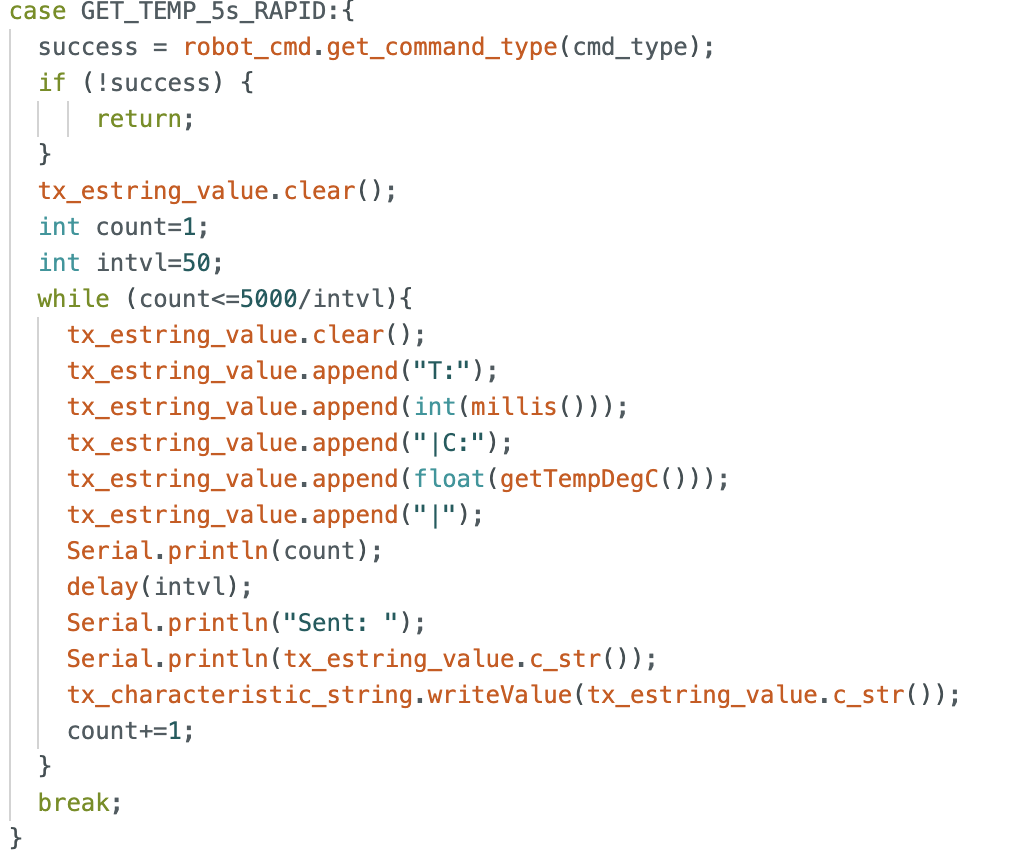
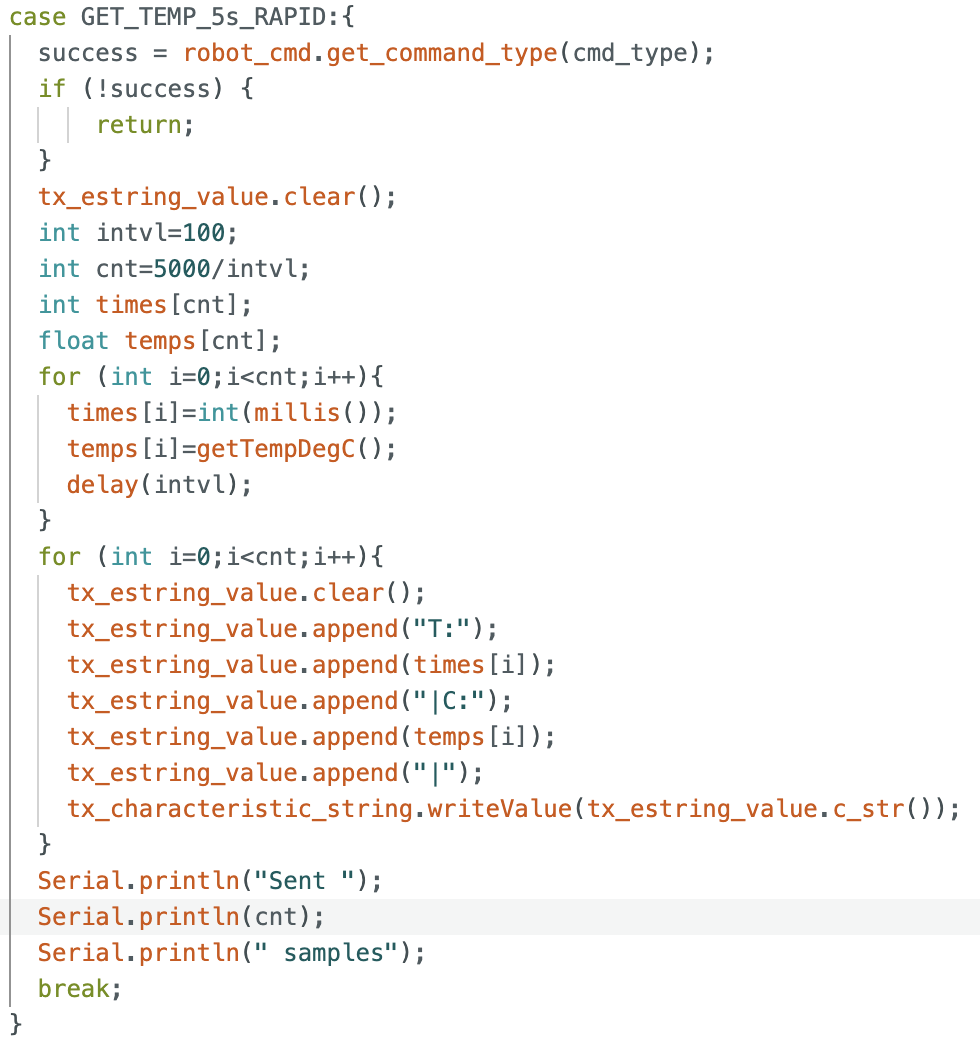
Lab 3 completed

Changed region(s): [[0.0, 0.0, 0.9796, 0.9731], [0.0, 0.9731, 0.0306, 1.0]]

diff --git a/docs/index.html b/docs/index.html
@@ -452,11 +452,11 @@
                                     </div>
                                     <p class="item-intro text-muted">Task 4: Get Temperature Command</p>
 
-                                    <p>To sample temperature more rapidly, I use another command <em>GET_TEMP_5s_RAPID</em> in which I set an interval of 50ms, thus 5 * 1000 / 50 = 100 temperature points were obtained. I also set a counter on the Artemis side and print it out each time it sends a temperature data to testify:</p>
+                                    <p>To sample temperature more rapidly, I use another command <em>GET_TEMP_5s_RAPID</em> in which I set an interval of 100ms, thus 5 * 1000 / 100 = 50 samples were obtained in 5 seconds, stored in two arrays, then sent one at a time to PC:</p>
                                     <div class="labim" ><img width="500" src="assets/img/Lab/2_16.png" alt="..."></div>
 
                                     <div class="youtube-embedded">
-                                    <iframe  width="640" height="360" src="https://www.youtube.com/embed/Slp_FstnQnw"></iframe>
+                                    <iframe  width="640" height="360" src="https://www.youtube.com/embed/Gssiif0stbA"></iframe>
                                     </div>
                                     <p class="item-intro text-muted">Task 4: Get Temperature Rapidly</p>
                                     <h4>Task 5: Limitations</h4>
@@ -504,26 +504,75 @@
                                     <h2 class="text-uppercase">Lab 3</h2>
                                     <p class="item-intro text-muted">Time of Flight Sensors</p>
                                     <h3>Introduction</h3>
-                                    <p></p>
+                                    <p>This lab aims to arm the Artemis board with two time-of-flight distance sensors. The range, accuracy, repeatability, and reading time of the sensors are examined. </p>
                                     <h3>Prelab</h3>
+                                    <h4>(a) I2C</h4>
                                     <p>The sensors use I2C to communicate with the Artemis board. As is specified on VL53L1X's datasheet, the default I2C address is <code>0x52</code>.</p>
-
+                                    <h4>(b) 2 Sensors</h4>
+                                    <p>Two ToF sensors shall be employed on the robot. As these two share the same default I2C address, one of them is supposed to be changed manually. I implemented this by connecting the XSHUT pin of one of the sensors to a GPIO pin on Artemis. In the setup process, after starting both sensors, the pin outputs low to temporarily shut down the corresponding sensor. A new I2C address is assigned to the other sensor programmatically, then the shut down one can be enabled again with its default address. </p>
+                                    <h4>(c) Placement on Robot</h4>
+                                    <p>I plan to place thw two sensors at the front corners on the robot car, as is shown in the picture:</p>
+                                    <div class="labim" ><img width="420" src="assets/img/Lab/3_0.png" alt="..."></div>
+                                    <p>Each sensor is able to detect obstacles on its corresponding side. If they detect an obstacle of the same distance simultaneously, it is probable that there is an obstacle in the front. However, this requires both of the sensors function correctly with high precision. Also, small obstacles in the front could be missed if it is closer to one sensor. More accurate measurement could be achieved by adding more sensors.</p>
+                                    <h4>(d) Wiring</h4>
+                                    <div class="labim" ><img width="600" src="assets/img/Lab/3_1.png" alt="..."></div>
+                                    <p class="item-intro text-muted">Wiring Diagram</p>
+                                    <p>Qwiic cables are arranged in colors: black for GND, red for 3.3V, blue for SDA and yellow for SCL.</p>
                                     <h3>Lab Tasks & Results</h3>
                                     <h4>Task 1: Connection</h4>
-                                    <p></p>
+                                    <p>The two ToF sensors are connected to a QWIIC break-out board then to the Artemis board.</p>
+                                    <div class="labim" ><img width="640" src="assets/img/Lab/3_2.png" alt="..."></div>
+                                    <p class="item-intro text-muted">Picture of ToF sensors connected to QWIIC</p>
                                     <div class="labim" ><img width="640" src="assets/img/Lab/3_3.png" alt="..."></div>
-                                    <div class="labim" ><img width="640" src="assets/img/Lab/3_4.png" alt="..."></div>
                                     <p class="item-intro text-muted">Screenshot of Artemis Scanning for I2C Device</p>
+                                    <p>After being physically connected, the Artemis scanned the I2C channel and found a device with an address of <code>0x29</code>, which is different from the value <code>0x52</code> claimed in VL53L1X's datasheet. The reason behind this is that I2C transmits MSB first. <code>0x29</code> is 101001 in binary and <code>0x52</code> is 1010010, the first 7 bits of which are the same. After sending the first 7 digits, a zero is padded at the end to fill 8 bits, making <code>0x29</code> turns into <code>0x52</code>.</p>
+                                    <h4>Task 2: Sensor Data of Chosen Mode</h4>
+                                    <p>The ToF sensor has three modes. The default Long mode can measure data up to 4 m away, achieving the maximum ranging distance, but is relatively sensitive to ambient light conditions. The Short mode only has a ranging distance of up to 1.3 m, but it also has the best immunity against ambient changes. The Medium mode is in the middle of the other two, with the ability to detect obstacles up to 3 m away and not too sensitive of ambient lights.</p>
+                                    <p>The final robot is expected to cope with different surroundings, so good ambient immunity is required. Also, a range of 1.3 meters is large enough for a small car. Thus, I think the Short mode should work well on it.</p>
+                                    <div class="labim" ><img width="350" src="assets/img/Lab/3_4.png" alt="..."></div>
+                                    <p class="item-intro text-muted">Experiment Setting</p>
+                                    <p>I checked the range, accuracy, repeatability, and ranging time of the ToF sensor. The samples were taken at an interval of 50 mm from 50 mm to 900 mm. By adding some codes to the ReadDistance example sketch, the MCU sent the ranging time for every measure to PC.</p>
+                                    <div class="labim" ><img width="500" src="assets/img/Lab/3_5.png" alt="..."></div>
+                                    <div class="labim" ><img width="250" src="assets/img/Lab/3_8.png" alt="..."></div>
+                                    <p class="item-intro text-muted">Sample Result</p>
+                                    <div class="labim" ><img width="400" src="assets/img/Lab/3_6.png" alt="..."></div>
+                                     <p class="item-intro text-muted">Measured Distance VS Truth</p>
 
-                                    <h4>Task 2: Sensor Data</h4>
+                                    <div class="labim" ><img width="400" src="assets/img/Lab/3_7.png" alt="..."></div>
+                                    <p class="item-intro text-muted">Ranging Time VS Distance</p>
+                                    <p>It can be seen from the results that for Short mode, distance within the 1.3m range can be measured with a maximum error of about &#177; 8mm. Measurement beyond the range returns a zero value. The measurement has good repeatability. Ranging time has little to do with the measuring range, and is approximately 50.0 ms. </p>
                                     <h4>Task 3: 2 ToF Sensors</h4>
+                                    <p>To use 2 ToF sensors simultaneously, one of them needs to be assigned a new I2C address programmatically while the other one is restarted via the XSHUT pin to maintain the default address:</p>
+                                    <div class="labim" ><img width="360" src="assets/img/Lab/3_9.png" alt="..."></div>
+                                    <div class="labim" ><img width="500" src="assets/img/Lab/3_10.png" alt="..."></div>
+                                    <div class="labim" ><img width="500" src="assets/img/Lab/3_11.png" alt="..."></div>
+                                    <p>In the demonstration video, the two sensors work in parallel and generate results separately:</p>
+                                    <div class="youtube-embedded">
+                                    <iframe  width="640" height="360" src="https://www.youtube.com/embed/u5838E9BPNU"></iframe>
+                                    </div>
                                     <h4>Task 4: ToF Sensor Speed</h4>
+                                    <p>To maximize reading speed, I removed the<code>stopRanging()</code> and <code>clearInterrupt()</code> commands and moved the <code>startRanging()</code> process to setup codes. Sensor data are only printed when new reading is ready, i.e., <code>.checkForDataReady()</code> returns True.</p>
+                                    <div class="labim" ><img width="500" src="assets/img/Lab/3_12.png" alt="..."></div>
+                                    <div class="labim" ><img width="350" src="assets/img/Lab/3_13.png" alt="..."></div>
+                                    <p class="item-intro text-muted">Sample Result</p>
+                                    <p>Although there are several redundant codes (getting time and serial printing), the loop consistently takes 10 to 11 ms, which is significantly reduced from the ranging time of 50 ms.</p>
+                                    <p>Within the 10-11 ms, the biggest share of time is still taken by ToF reading operations (~8 ms). Therefore, I suppose the limiting factor to lowering time is I2C communication performed between sensors and Artemis.</p>
                                     <h4>Task 5: Time v Distance</h4>
-                                    <h4>Task 6: (5160) Discussion on infrared transmission based sensors/h4>
+                                    <p>A <code>GET_ToF_5s</code> command is written to send ToF data sampled in 5 s to PC through BLE:</p>
+                                    <div class="labim" ><img width="500" src="assets/img/Lab/3_14.png" alt="..."></div>
+                                    <p>PC uses a notification handler to parse the received message. Then the samples from two sensors are plotted against time stamps:</p>
+                                    <div class="labim" ><img width="450" src="assets/img/Lab/3_15.png" alt="..."></div>
+                                    <div class="labim" ><img width="500" src="assets/img/Lab/3_16.png" alt="..."></div>
+                                    <h4>Task 6: (5160) Discussion on infrared transmission based sensors</h4>
+                                    <p>The sensor used in this lab is based on time-of-flight infrared transmission. Such sensors work by emitting a pulse modulated signal, taking a travel time t until return, and getting the distance d from <code>d = t*c/2</code>, where c is the speed of time. Pros of ToF IR sensors are high sample rate, small form factor and immunity to changes in colors, textures and ambient lights. But they also have shortcomings as high cost and complicated processing.</p>
+                                    <p>Some infrared distance senosrs base on amplitude, comparing the amplitude of the reflected wave to the one of the original emitted wave and calculate distance accordingly. Their pros include low cost and simple circuitry, and they work reasonably well under many circumstances. However, such sensors are extremely sensitive to target reflectivity and perform poorly in high ambient light.</p>
+                                    <p>Another type is triangulation–based sensors. To obtain the distance to target, they emit a wave at an angle and measure the reflected wave with an array of diodes, then calculate results with the angle and the distance between the highest-magnitude diode. Their pros are simple circuitry and less  sensitivity to color, texture, ambient light. On the other side, they are expensive and bulky, and also do not work in high ambient light and has the problem of low sample rate.</p>
                                     <h4>Task 7: (5160) Sensitivity of sensors to colors and textures</h4>
-
+                                    <p>I tested the ToF sensor against a coarse white wall, white paper, yellow book cover, and a piece of black leather. It turned out that there was no notable difference among these materials in terms of reading accuracy and speed. Therefore, the conclusion that the ToF IR sensor is not sensitive to colors and textures is implied.</p>
+                                    <div class="labim" ><img width="500" src="assets/img/Lab/3_18.png" alt="..."></div>
+                                    <p class="item-intro text-muted">Experiment Setting</p>
                                     <h3>Conclusion</h3>
-                                    <p></p>
+                                    <p>Two ToF sensors are connected to the Artemis board. The performance of the two sensors are discussed under different circumstances. Sensor data are sent to PC via BLE and parsed for future use.</p>
                                     <div class="labbtn" >
                                     <button class="btn btn-primary btn-xl text-uppercase" data-bs-dismiss="modal" type="button">
                                         <i class="fas fa-xmark me-1"></i>

diff --git a/docs/css/styles.css b/docs/css/styles.css
@@ -11798,7 +11798,7 @@ section#contact form#contactForm :-ms-input-placeholder {
 }
 
 .labim{
-    padding:5px;
+    padding-top:5px;
     margin:0px;
     text-align: center;
 }
